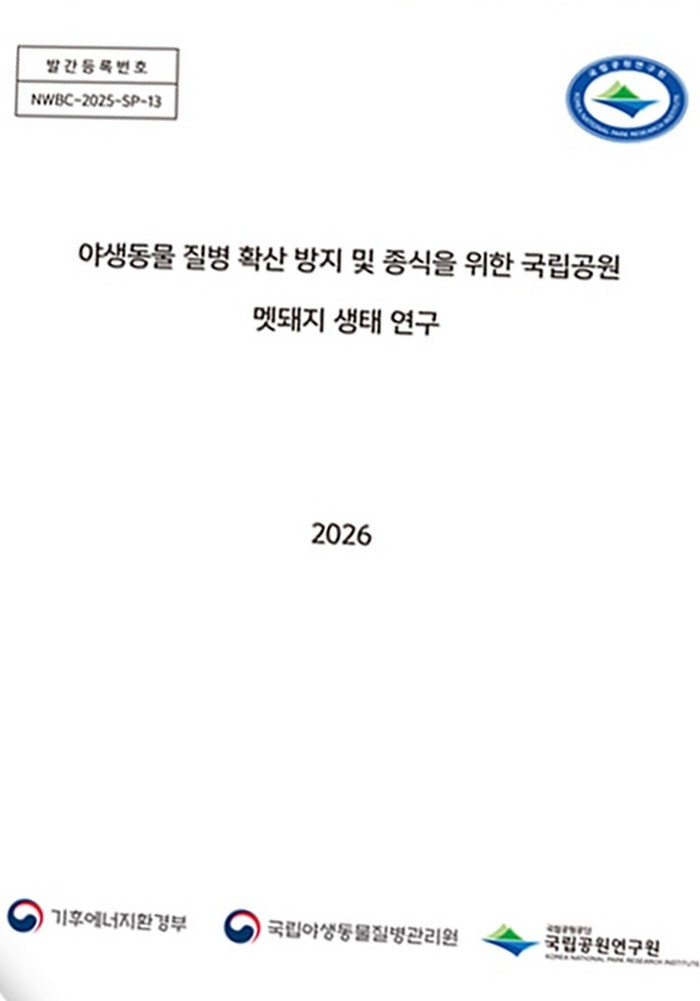
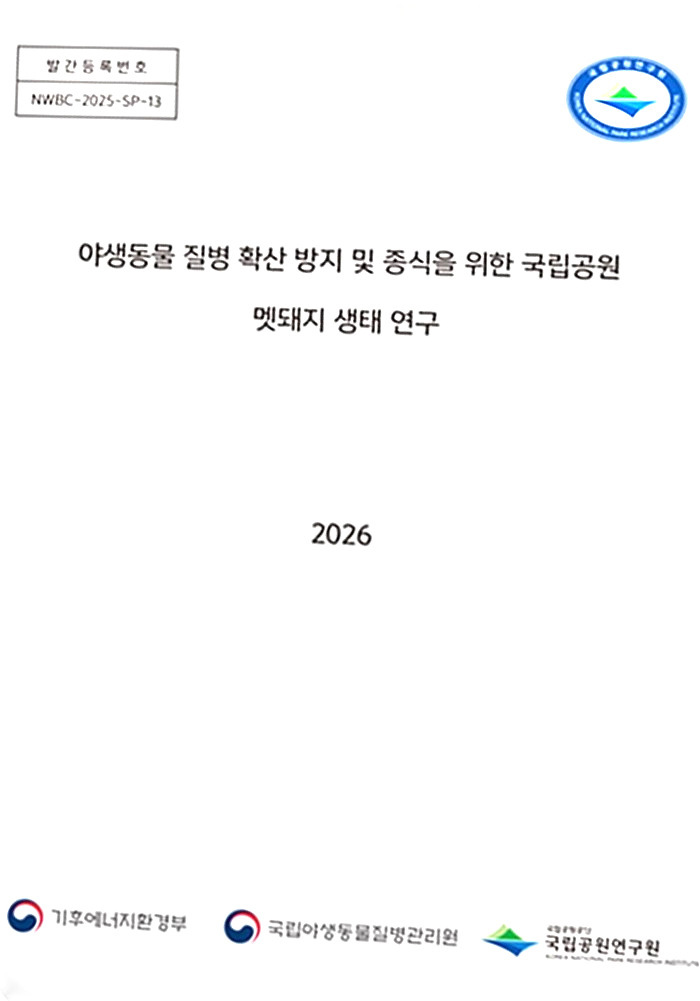
보고서 카드 문구 인쇄·제작으로 정리, 표지 이미지 평탄화·각진 3D 책 보정, 모바일 로고 균형 조정, 스타일 v6

diff --git a/index.html b/index.html
@@ -24,7 +24,7 @@
 <link rel="stylesheet" href="https://cdn.jsdelivr.net/gh/fonts-archive/SeoulNamsan/subsets/SeoulNamsan-dynamic-subset.css" />
 <link rel="preload" as="image" href="assets/hero-nature-1.jpg" />
 <link rel="stylesheet" href="https://cdn.jsdelivr.net/gh/orioncactus/pretendard@v1.3.9/dist/web/variable/pretendardvariable-dynamic-subset.min.css" />
-<link rel="stylesheet" href="styles.css?v=5" />
+<link rel="stylesheet" href="styles.css?v=6" />
 
 <script type="application/ld+json">
 {
@@ -647,21 +647,21 @@
                 <span class="book3d__edge" aria-hidden="true"></span>
               </div>
             </div>
-            <span class="badge">표지 · 편집 · 인쇄 제작</span>
+            <span class="badge">인쇄 · 제작</span>
           </div>
 
           <div class="book-card__body">
             <p class="book-card__cat">보고서 제작 · 2026</p>
             <h3 class="h3 h3--sm">『야생동물 질병 확산 방지 및 증식을 위한 국립공원 멧돼지 생태 연구』</h3>
             <p class="book-card__desc">
-              국립공원연구원이 발행한 연구보고서로, 초록을잇다가 표지 디자인과 편집 디자인, 인쇄 제작을 맡았습니다.
+              국립공원연구원이 발행한 연구보고서로, 초록을잇다가 인쇄와 제작을 맡았습니다.
               현재 같은 방식으로 2건의 보고서를 추가 제작 중입니다.
             </p>
             <dl class="meta">
               <div><dt>발행</dt><dd>국립공원연구원</dd></div>
               <div><dt>발행월</dt><dd>2026년 5월</dd></div>
               <div><dt>발간등록번호</dt><dd>NWBC-2025-SP-13</dd></div>
-              <div><dt>담당</dt><dd>표지 · 편집 디자인, 인쇄 제작</dd></div>
+              <div><dt>담당</dt><dd>인쇄 · 제작</dd></div>
               <div><dt>진행 중</dt><dd>보고서 2건 추가 제작</dd></div>
             </dl>
           </div>
@@ -763,6 +763,6 @@
 
 </main>
 
-<script src="main.js?v=5" defer></script>
+<script src="main.js?v=6" defer></script>
 </body>
 </html>

diff --git a/styles.css b/styles.css
@@ -681,6 +681,19 @@ body.is-ready .hero__foot{opacity:1}
 .book3d__spine--plain{background:linear-gradient(90deg,#dbe1d9,#fff 42%,#cdd5c9)}
 .book3d__spine--plain::after{background:linear-gradient(90deg,rgba(0,0,0,.16),rgba(255,255,255,.4) 50%,rgba(0,0,0,.12))}
 .book3d--report{--t:13px}
+/* 국립공원연구원 보고서: 흰 표지가 배경에 묻히지 않도록 각진 모서리와 실선 테두리를 준다 */
+.book3d--report .book3d__front{
+  border-radius:0 1px 1px 0;
+  box-shadow:
+    inset 0 0 0 1px rgba(6,35,31,.14),
+    -20px 24px 46px -24px rgba(6,35,31,.6);
+}
+.book3d--report .book3d__shade{
+  border-radius:0 1px 1px 0;
+  background:linear-gradient(90deg,rgba(4,26,22,.18) 0%,rgba(4,26,22,.05) 4%,rgba(255,255,255,0) 13%,rgba(255,255,255,0) 92%,rgba(4,26,22,.04) 100%);
+}
+.book3d--report .book3d__spine{border-radius:0}
+.book3d--report .book3d__edge{border-radius:0 1px 1px 0}
 .book3d__edge{
   position:absolute;left:100%;top:1.2%;width:var(--t);height:97.6%;
   transform-origin:left center;
@@ -865,6 +878,9 @@ body.is-ready .hero__foot{opacity:1}
   .footer__nav{margin-left:0;width:100%;order:3;padding-top:8px}
   .book-card__cover{padding:24px 18px}
   .book3d{--bw:min(190px,64%);--t:24px}
+  /* 모바일 로고: 심볼 높이를 워드마크 글씨 높이에 맞춘다 */
+  .brand__mark{width:28px}
+  .brand__name{font-size:1.2rem}
   .service__detail{padding:18px 16px;border-radius:18px;gap:24px}
   .levels{grid-template-columns:1fr}
   .levels--two{grid-template-columns:1fr}

diff --git a/README.md b/README.md
@@ -16,6 +16,13 @@
 - **프로그램 정리** — 주요사업 01의 섹션 소개·설명·태그와 세 번째 카드, `컨설팅 · 연수 · ○○○` 블록 제목에서 해당 프로그램 관련 문구를 모두 삭제(블록은 `컨설팅 · 연수` 2개 카드 구성으로 변경)
 - **캐시 갱신** — `styles.css?v=5`, `main.js?v=5`
 
+## 4차 반영 (v4)
+- **보고서 문구** — 국립공원연구원 보고서 카드의 배지 `표지 · 편집 · 인쇄 제작` → **`인쇄 · 제작`**, 본문 `표지 디자인과 편집 디자인, 인쇄 제작을 맡았습니다` → **`인쇄와 제작을 맡았습니다`**, 메타 `담당` 항목도 `인쇄 · 제작`으로 정리(일반 출판 서비스 소개 문구의 `표지·편집 디자인`은 그대로 둠)
+- **보고서 표지 이미지** — 사진에서 추출한 표지의 하단 좌측 그늘·종이 곡면을 평탄화(플랫필드 보정)하고 가장자리를 흰색으로 정리해 `assets/report-cover.jpg` 교체(원본은 `_source-originals/report-cover-original.jpg`)
+- **보고서 3D 목업** — `.book3d--report`의 앞표지·그늘·책등·페이지 모서리 `border-radius`를 0~1px로 줄이고 앞표지에 1px 실선 테두리(`inset box-shadow`)를 넣어 흰 표지가 배경에 묻히지 않는 각진 책으로 보정
+- **모바일 로고 균형** — `@media (max-width:640px)`에서 `.brand__mark` 28px, `.brand__name` 1.2rem으로 조정해 심볼 높이(약 16.6px)가 워드마크 글씨 높이(약 18px)에 맞도록 함
+- **캐시 갱신** — `styles.css?v=6`, `main.js?v=6`
+
 ## 페이지 구성
 1. **히어로** — 화면을 가득 채우는 대형 비주얼(4장 크로스페이드 + 캔버스 모션)과 슬로건
 2. **소개** — 브랜드 소개 문장과 키워드(연결·실천·기록)
@@ -35,7 +42,7 @@
 
 ## 이미지 원본 메모
 - 도서 표지: `TalkFile_책등변경_1109.pdf` 1페이지(펼침면)에서 앞표지(735.9–1155.4pt)·책등(674.9–735.9pt) 영역을 400dpi로 렌더 후 크롭
-- 보고서 표지: `IMG_5942` 사진에서 원근 변환으로 정면 표지 추출(700×1001)
+- 보고서 표지: `IMG_5942` 사진에서 원근 변환으로 정면 표지 추출(700×1001) 후 하단 그늘·곡면 평탄화(4차)
 - 히어로: IMG_5965 · IMG_0439 · IMG_0683 · IMG_5411 / 현장: IMG_5921 / 사업: IMG_5972 · IMG_9379 · IMG_5969
 
 ## GitHub Pages 배포
